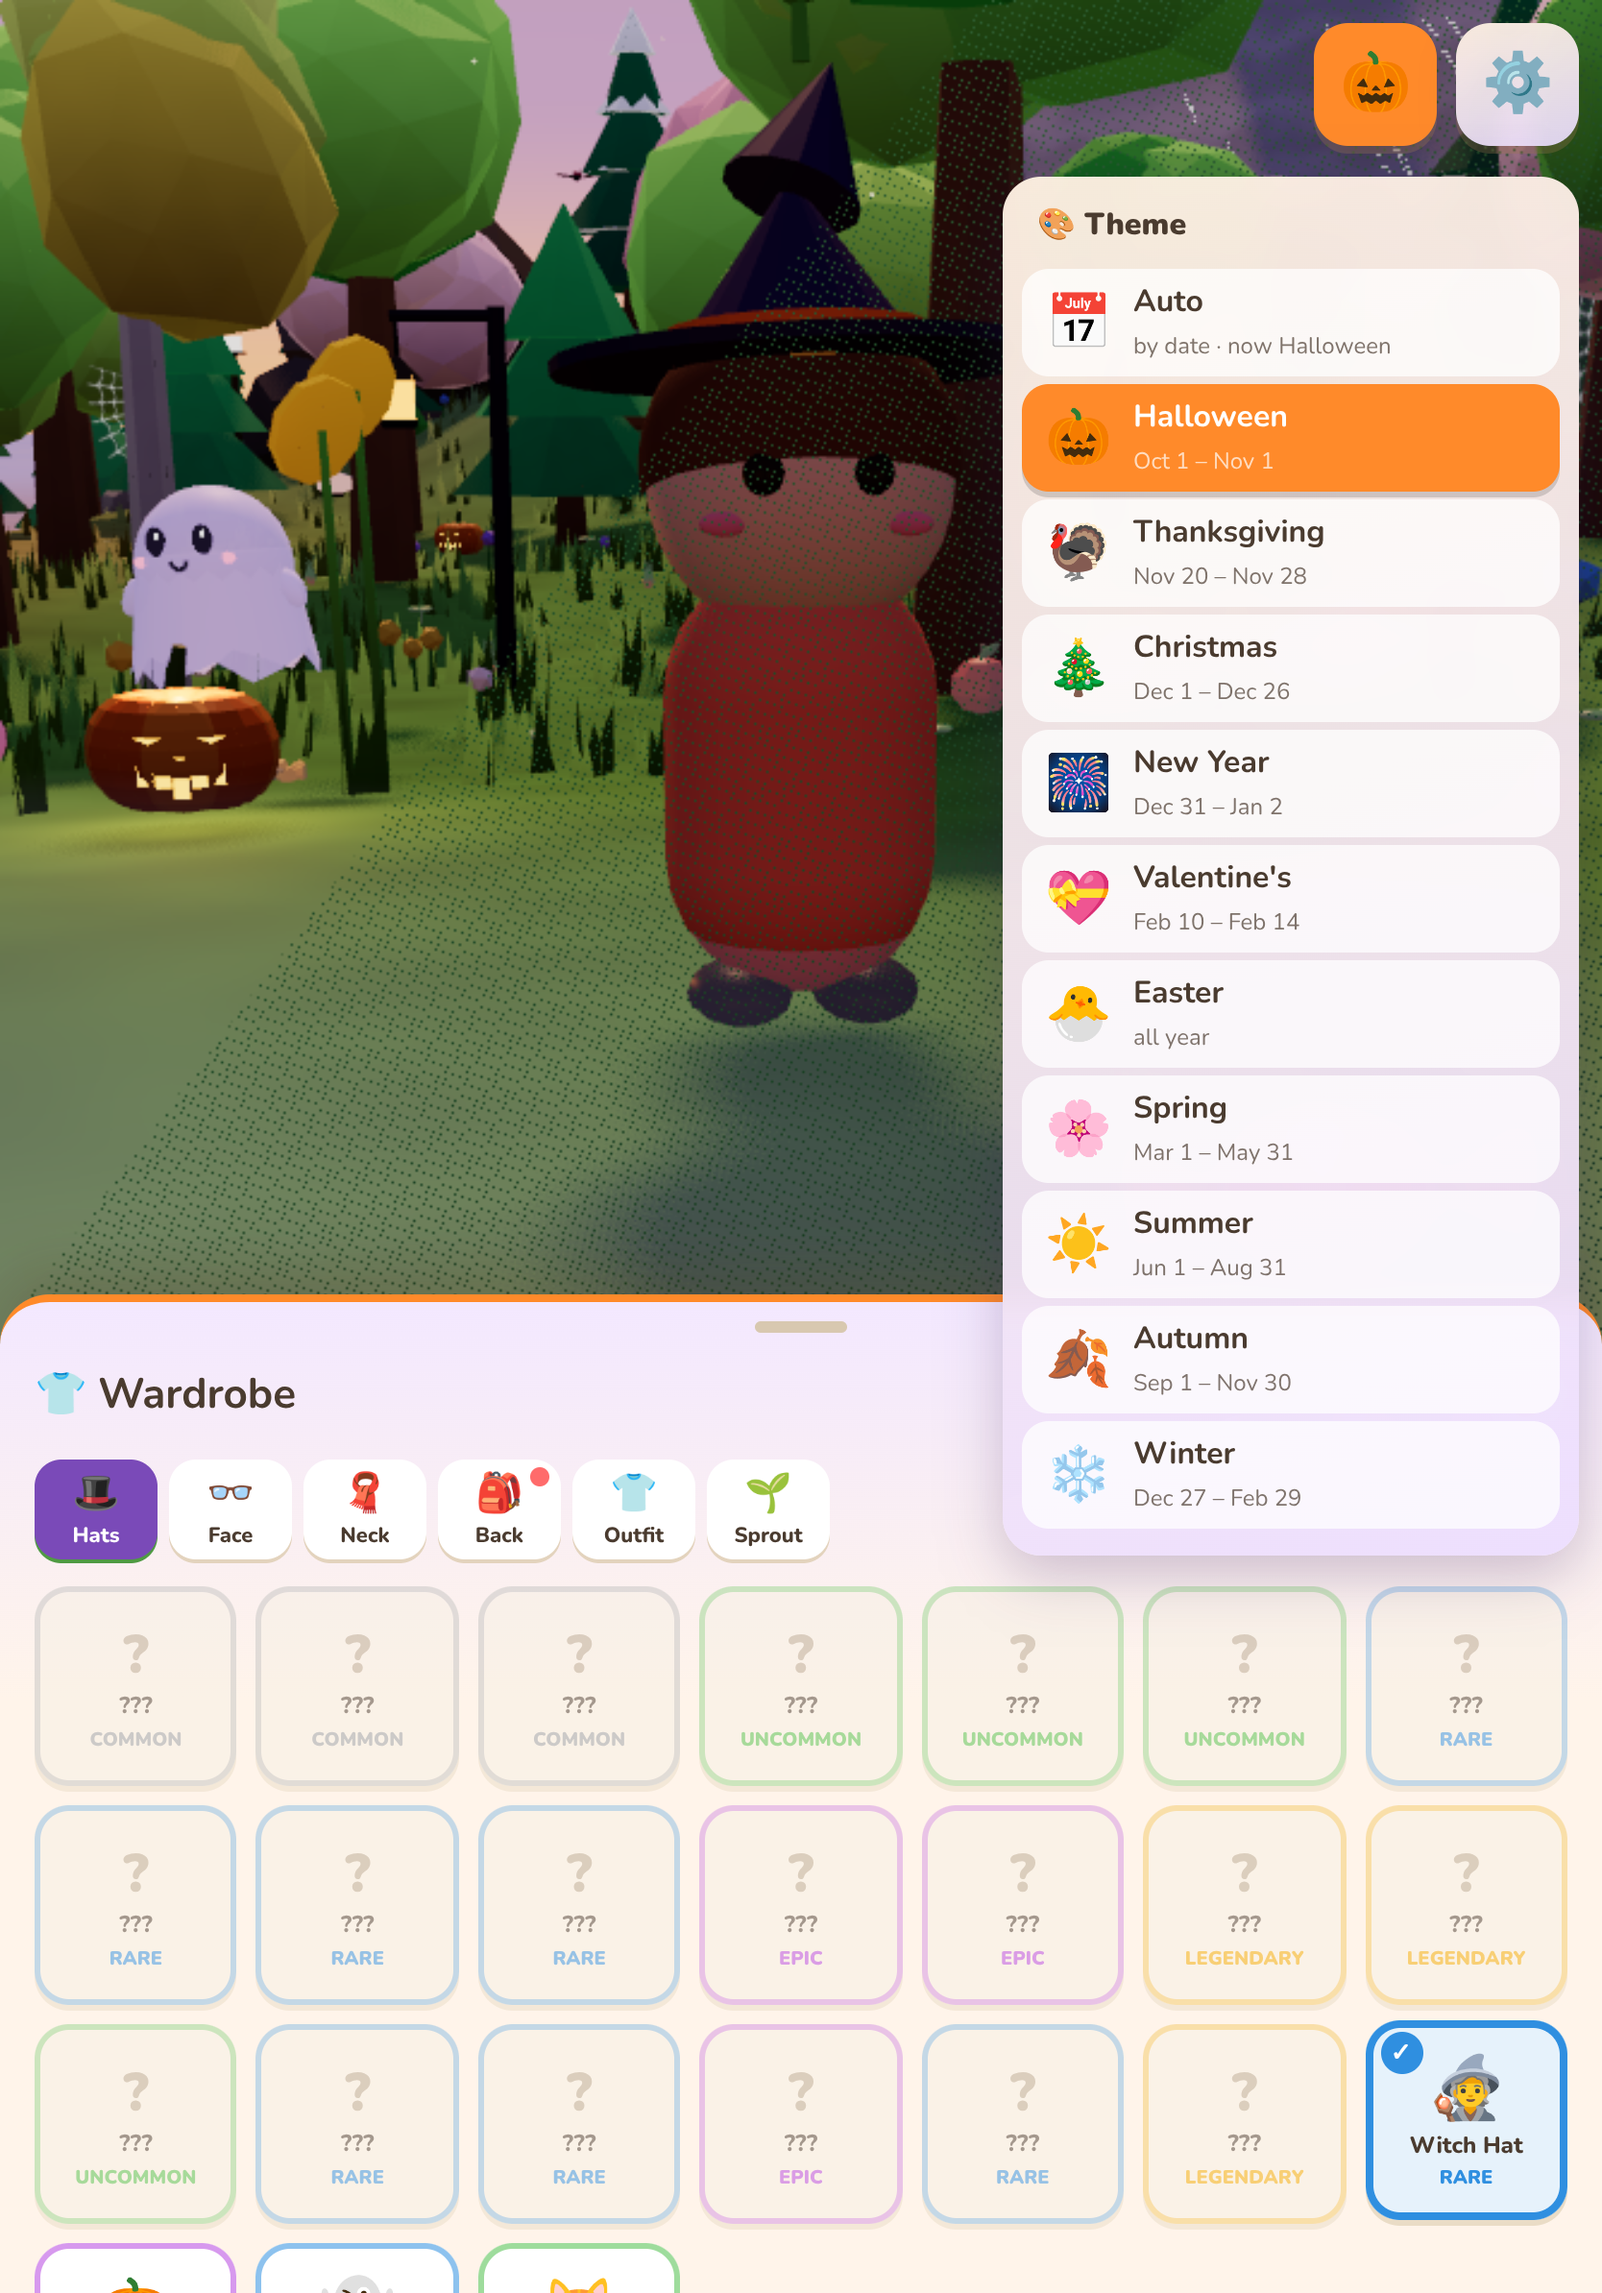
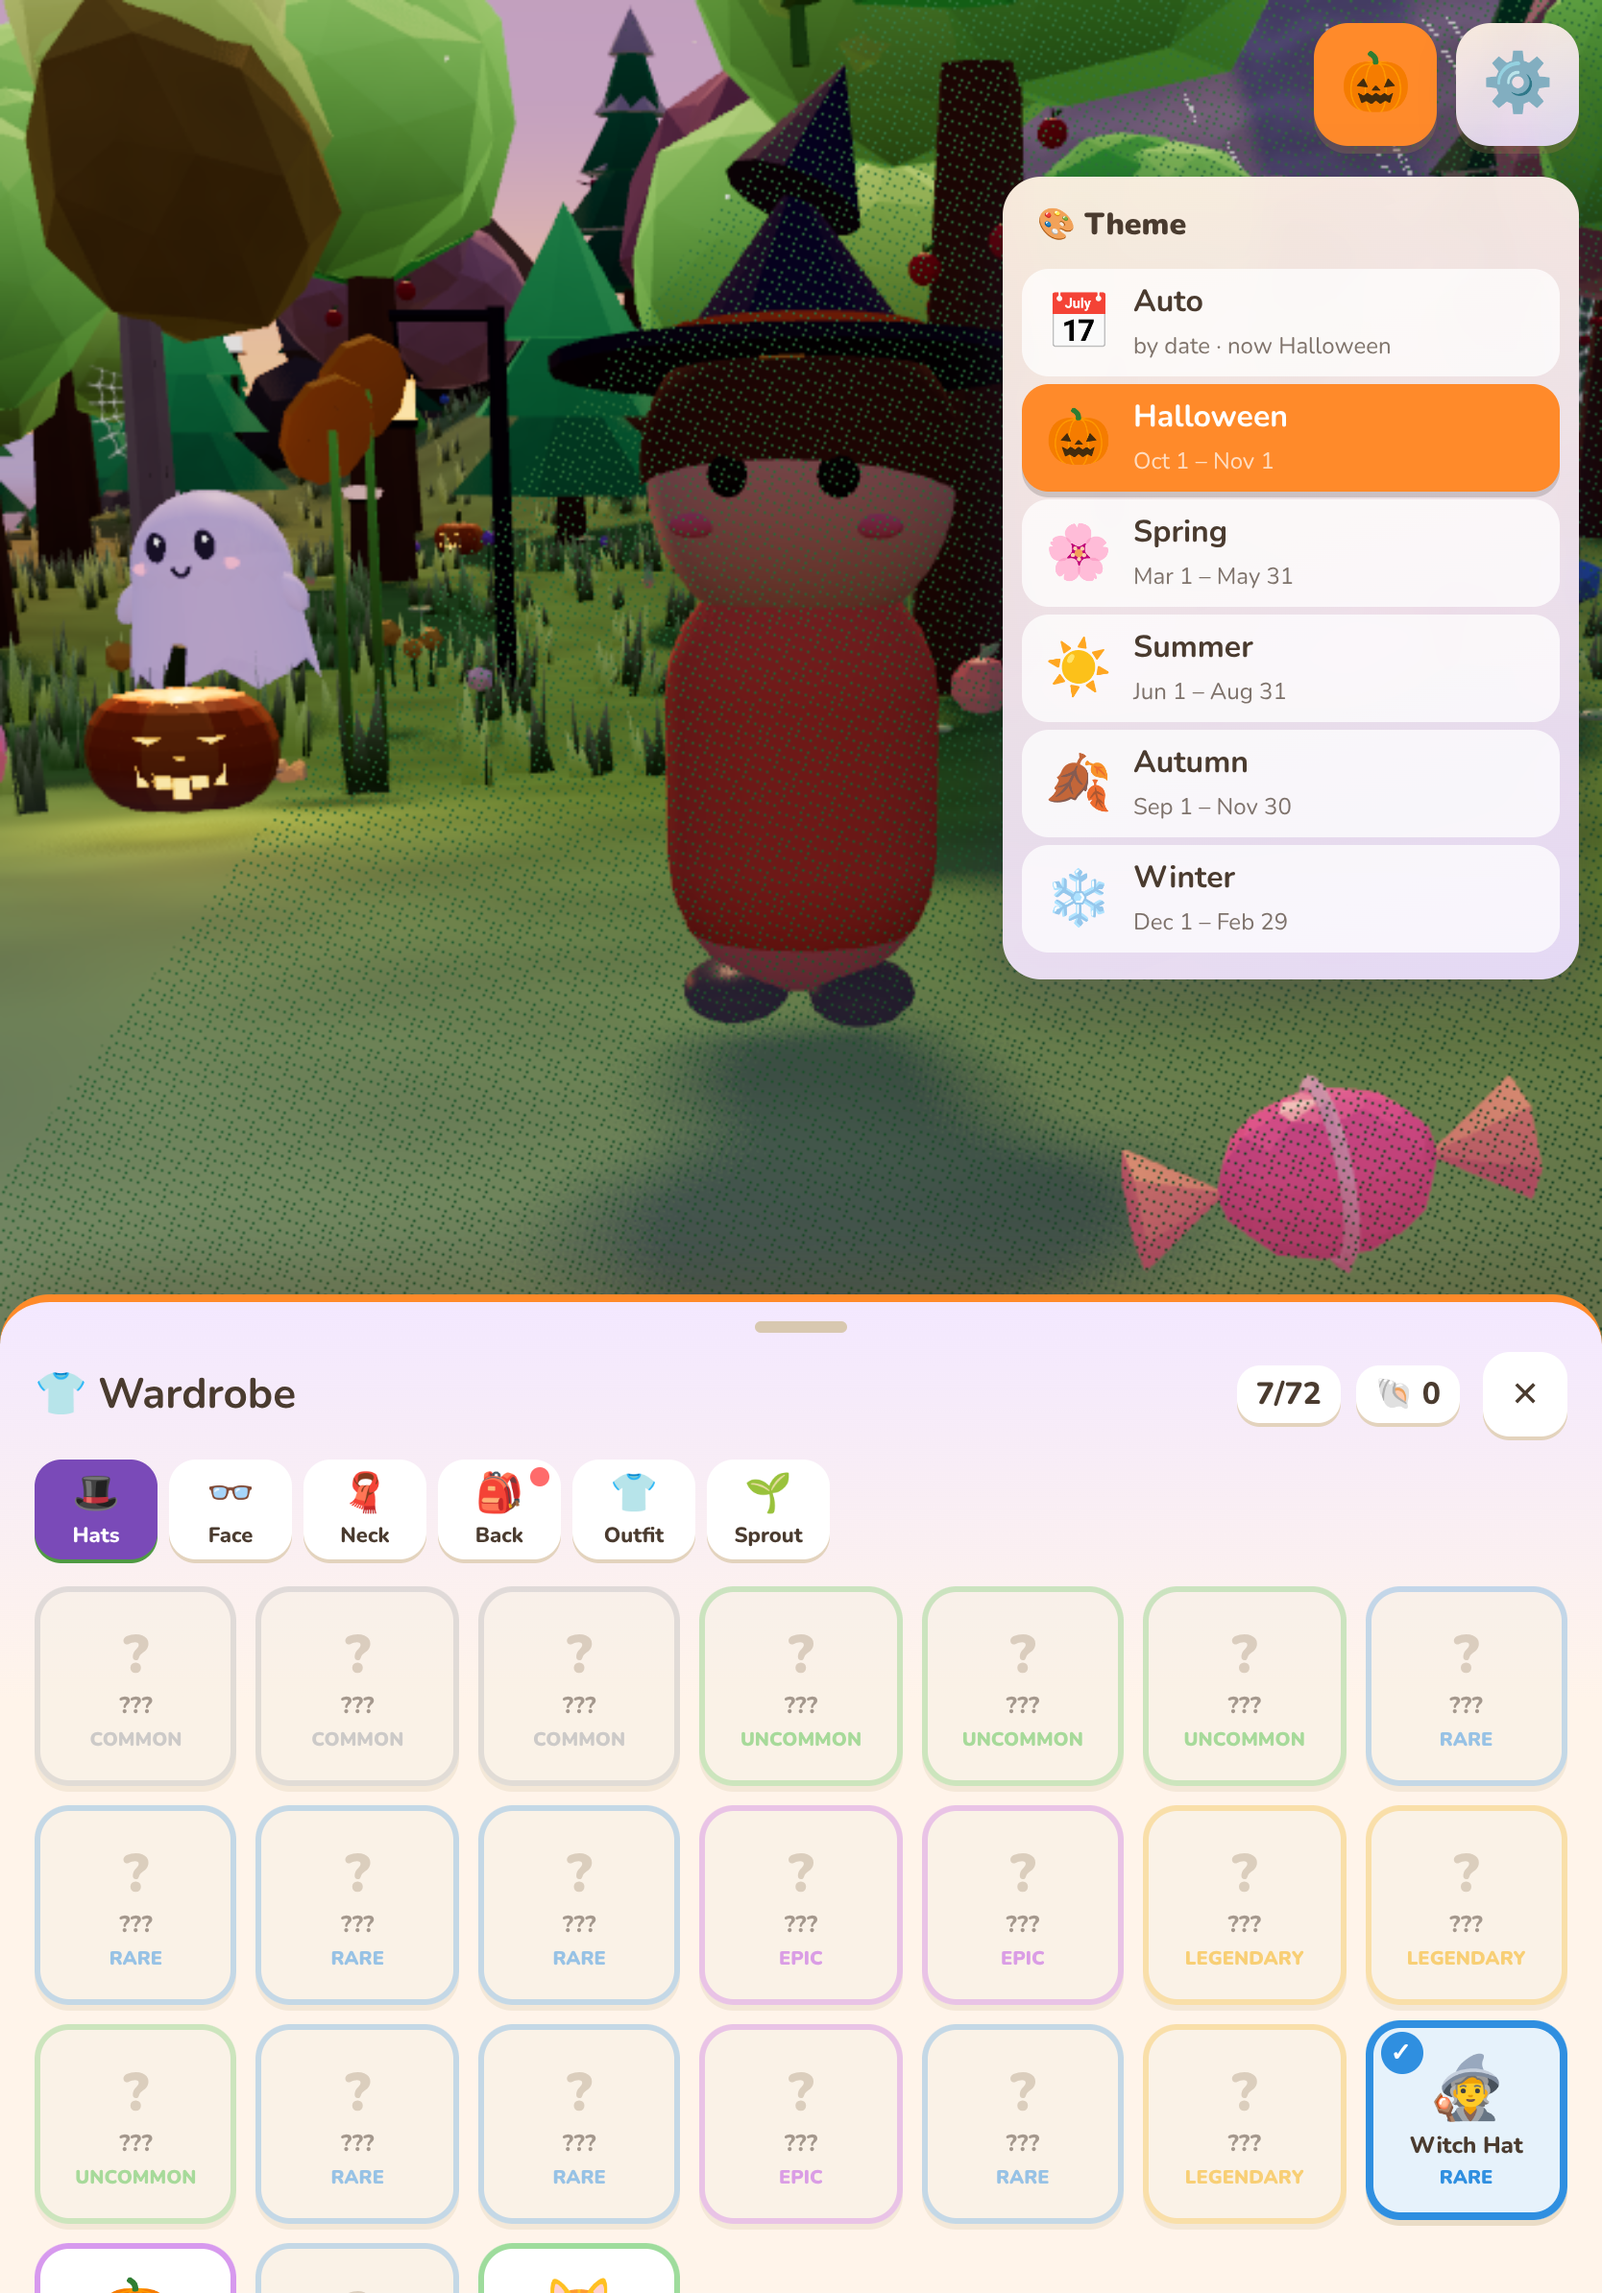
Themes: show only the 4 seasons + Halloween (Walker, Oct 20)
ENABLED_THEMES / VISIBLE_THEMES gate the picker and Auto; hidden holidays
(Thanksgiving, Christmas, New Year, Valentine's, Easter) stay built but are
never auto-picked, a saved hidden choice reads as Auto, ?theme=<hidden> still
works for dev. Winter window now Dec 1 - Feb 29; month-season safety net.
Tests: theme/dock/holidays updated; iPad picker screenshot 76.

diff --git a/src/theme/theme.ts b/src/theme/theme.ts
@@ -2,8 +2,11 @@
 // themeEvents). A theme describes the whole look and feel. The renderer grade, sky + fog, HUD skin, music,
 // decorations ("dress"), critters, collectibles and build pieces all read the active theme and listen for
 // changes, so a switch happens live. New for 3D: each theme can carry a date window, and the active theme is
-// resolved as  URL ?theme=  >  saved setting  >  date window  >  spring.
+// resolved as  URL ?theme=  >  saved setting  >  date window  >  season of the month.
 // Legacy URL/localStorage value 'classic' migrates to 'spring'.
+// Oct 20 2026 (Walker): only the 4 seasons + Halloween are enabled. The other holidays stay fully built but hidden:
+// not in the picker, never picked by Auto, a saved hidden choice reads as Auto. ?theme=<hidden> still works (dev).
+// To re-enable a holiday, add its id to ENABLED_THEMES.
 
 export type ThemeId = 'spring' | 'summer' | 'autumn' | 'winter' | 'halloween' | 'thanksgiving' | 'christmas' | 'newyear' | 'valentine' | 'easter';
 export type ThemeSetting = 'auto' | ThemeId;
@@ -81,7 +84,7 @@ const autumn: Theme = {
 };
 
 const winter: Theme = {
-  id: 'winter', name: 'Winter', icon: '❄', window: { from: [12, 27], to: [2, 29] },
+  id: 'winter', name: 'Winter', icon: '❄', window: { from: [12, 1], to: [2, 29] }, // Christmas/New Year/Valentine's win inside this when enabled
   grade: { tint: '#e8f4ff', sat: 0.95, vignette: '#a0c8e8' },
   sky: {
     blend: 0.7, zenith: '#6080b0', mid: '#a0b8d8', low: '#d0e0f0', horizon: '#f0f4f8', fog: '#c8d8e8', fogNear: 28, fogFar: 160,
@@ -189,17 +192,27 @@ const easter: Theme = {
 export const THEMES: Record<ThemeId, Theme> = { spring, summer, autumn, winter, halloween, thanksgiving, christmas, newyear, valentine, easter };
 /** holidays first so first-match date windows win over seasons */
 export const THEME_ORDER: ThemeId[] = ['halloween', 'thanksgiving', 'christmas', 'newyear', 'valentine', 'easter', 'spring', 'summer', 'autumn', 'winter'];
+/** themes the player can see and Auto can pick (others are hidden, not deleted) */
+export const ENABLED_THEMES: ReadonlySet<ThemeId> = new Set<ThemeId>(['spring', 'summer', 'autumn', 'winter', 'halloween']);
+export const isEnabled = (id: ThemeId) => ENABLED_THEMES.has(id);
+/** picker order: THEME_ORDER filtered to the enabled themes */
+export const VISIBLE_THEMES: ThemeId[] = THEME_ORDER.filter(isEnabled);
 const SETTING_KEY = 'cozyIsland.theme.v1';
 
-/** which theme's date window contains this date (first match in THEME_ORDER), else spring */
+/** meteorological season by month (safety net if no enabled window matches) */
+export function seasonForDate(d: Date = new Date()): ThemeId {
+  const m = d.getMonth() + 1;
+  return m >= 3 && m <= 5 ? 'spring' : m >= 6 && m <= 8 ? 'summer' : m >= 9 && m <= 11 ? 'autumn' : 'winter';
+}
+/** which enabled theme's date window contains this date (first match in THEME_ORDER), else the month's season */
 export function themeForDate(d: Date = new Date()): ThemeId {
   const md = (d.getMonth() + 1) * 100 + d.getDate();
-  for (const id of THEME_ORDER) {
+  for (const id of VISIBLE_THEMES) {
     const t = THEMES[id]; const w = t.windowFn ? t.windowFn(d.getFullYear()) : t.window; if (!w) continue;
     const a = w.from[0] * 100 + w.from[1], b = w.to[0] * 100 + w.to[1];
     if (a <= b ? md >= a && md <= b : md >= a || md <= b) return id;
   }
-  return 'spring';
+  return seasonForDate(d);
 }
 const migrate = (v: string): string => (v === 'classic' ? 'spring' : v);
 const isId = (v: unknown): v is ThemeId => typeof v === 'string' && v in THEMES;
@@ -209,7 +222,7 @@ export function loadSetting(): ThemeSetting {
     if (!raw) return 'auto';
     if (raw === 'auto') return 'auto';
     const v = migrate(raw);
-    if (isId(v)) {
+    if (isId(v) && isEnabled(v)) {
       if (raw === 'classic') try { localStorage.setItem(SETTING_KEY, 'spring'); } catch { /* ignore */ }
       return v;
     }
@@ -240,10 +253,10 @@ export let theme: Theme = THEMES[first.id];
 export let themeSource = first.source;
 export let themeSetting: ThemeSetting = loadSetting();
 
-/** switch live (and remember the choice unless it's 'auto') */
+/** switch live and remember the choice (hidden themes switch live for dev but are not saved) */
 export function setTheme(s: ThemeSetting) {
   themeSetting = s;
-  try { localStorage.setItem(SETTING_KEY, s); } catch { /* ignore */ }
+  if (s === 'auto' || isEnabled(s)) try { localStorage.setItem(SETTING_KEY, s); } catch { /* ignore */ }
   const id = s === 'auto' ? themeForDate() : s;
   themeSource = s === 'auto' ? 'date' : 'setting';
   if (theme.id === id) return;

diff --git a/src/ui/Hud.ts b/src/ui/Hud.ts
@@ -1,4 +1,4 @@
-import { setTheme, themeSetting, themeForDate, THEMES, THEME_ORDER, type ThemeSetting } from '../theme/theme';
+import { setTheme, themeSetting, themeForDate, THEMES, VISIBLE_THEMES, type ThemeSetting } from '../theme/theme';
 const MON = ['Jan', 'Feb', 'Mar', 'Apr', 'May', 'Jun', 'Jul', 'Aug', 'Sep', 'Oct', 'Nov', 'Dec'];
 const fmtWin = (w: { from: [number, number]; to: [number, number] }) => `${MON[w.from[0] - 1]} ${w.from[1]} – ${MON[w.to[0] - 1]} ${w.to[1]}`;
 import type { Input, Handedness } from '../core/Input';
@@ -70,10 +70,10 @@ export class Hud {
     const stop = (e: Event) => e.stopPropagation();
     for (const ev of ['pointerdown', 'pointerup', 'touchstart', 'touchend', 'mousedown', 'mouseup'] as const) this.dock.addEventListener(ev, stop);
     gear.addEventListener('click', (e) => { e.stopPropagation(); const o = !document.body.classList.contains('panels-open'); setOpen(o); save(o); this.closePicker(); gear.blur(); });
-    // picker: Auto + every theme in THEME_ORDER (new themes show up automatically)
+    // picker: Auto + every enabled theme (VISIBLE_THEMES; hidden holidays stay out)
     this.picker = el(`<div class="hud theme-picker" role="menu"><div class="tp-title">🎨 Theme</div>${
       [`<button class="tp-item" data-t="auto"><span class="tpi">📅</span><span><b>Auto</b><small>by date · now ${THEMES[themeForDate()].name}</small></span></button>`,
-        ...THEME_ORDER.map((id) => `<button class="tp-item" data-t="${id}"><span class="tpi">${THEMES[id].icon}</span><span><b>${THEMES[id].name}</b>${THEMES[id].window ? `<small>${fmtWin(THEMES[id].window!)}</small>` : '<small>all year</small>'}</span></button>`)].join('')}</div>`);
+        ...VISIBLE_THEMES.map((id) => `<button class="tp-item" data-t="${id}"><span class="tpi">${THEMES[id].icon}</span><span><b>${THEMES[id].name}</b>${THEMES[id].window ? `<small>${fmtWin(THEMES[id].window!)}</small>` : '<small>all year</small>'}</span></button>`)].join('')}</div>`);
     for (const ev of ['pointerdown', 'pointerup', 'touchstart', 'touchend', 'mousedown', 'mouseup'] as const) this.picker.addEventListener(ev, stop);
     const sync = () => { for (const b of this.picker.querySelectorAll<HTMLButtonElement>('.tp-item')) b.classList.toggle('on', b.dataset.t === themeSetting); tb.textContent = themeSetting === 'auto' ? '🎨' : THEMES[themeSetting].icon; };
     for (const b of this.picker.querySelectorAll<HTMLButtonElement>('.tp-item')) b.addEventListener('click', (e) => { e.stopPropagation(); setTheme(b.dataset.t as ThemeSetting); sync(); setTimeout(() => this.closePicker(), 180); });
